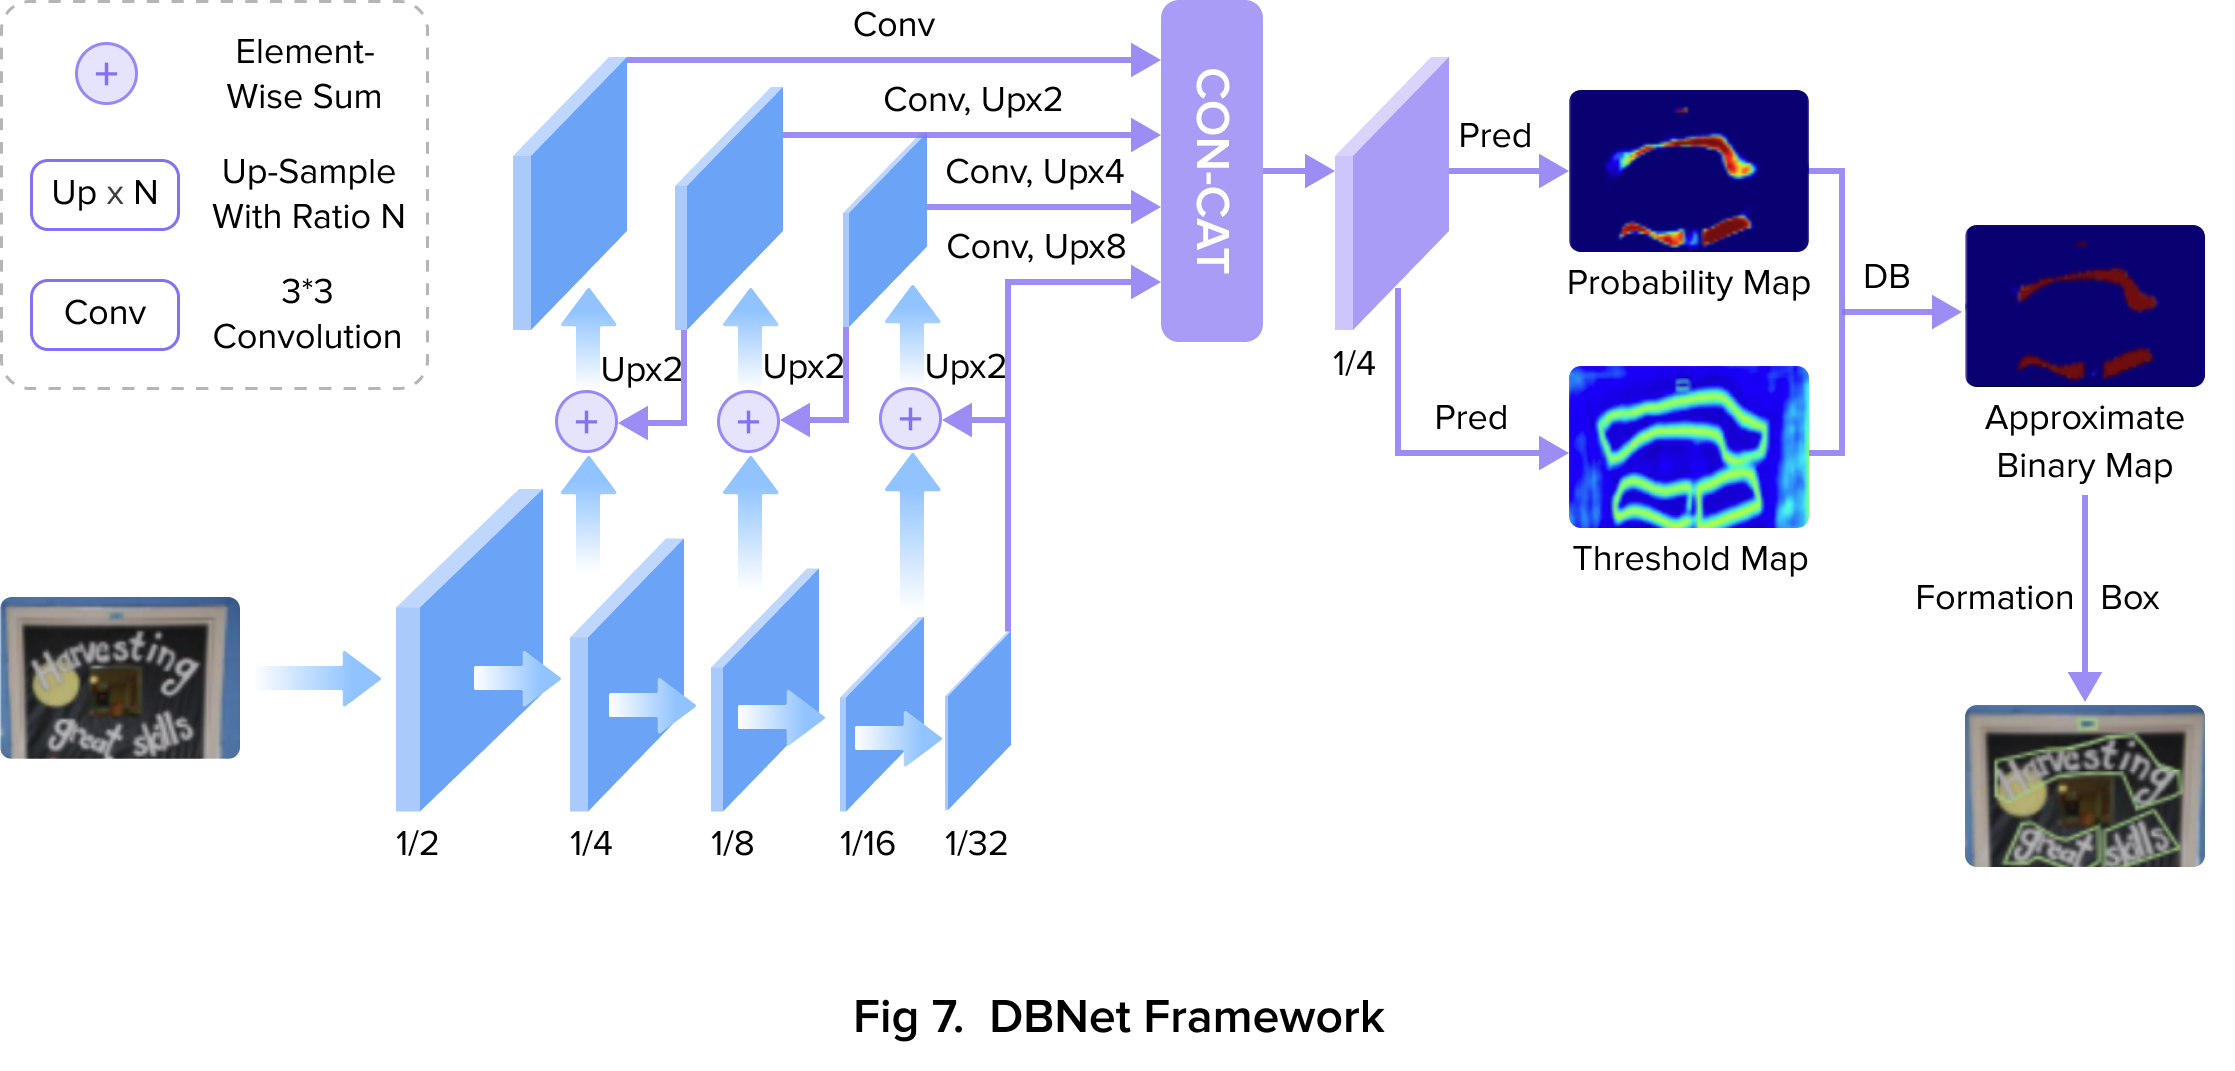
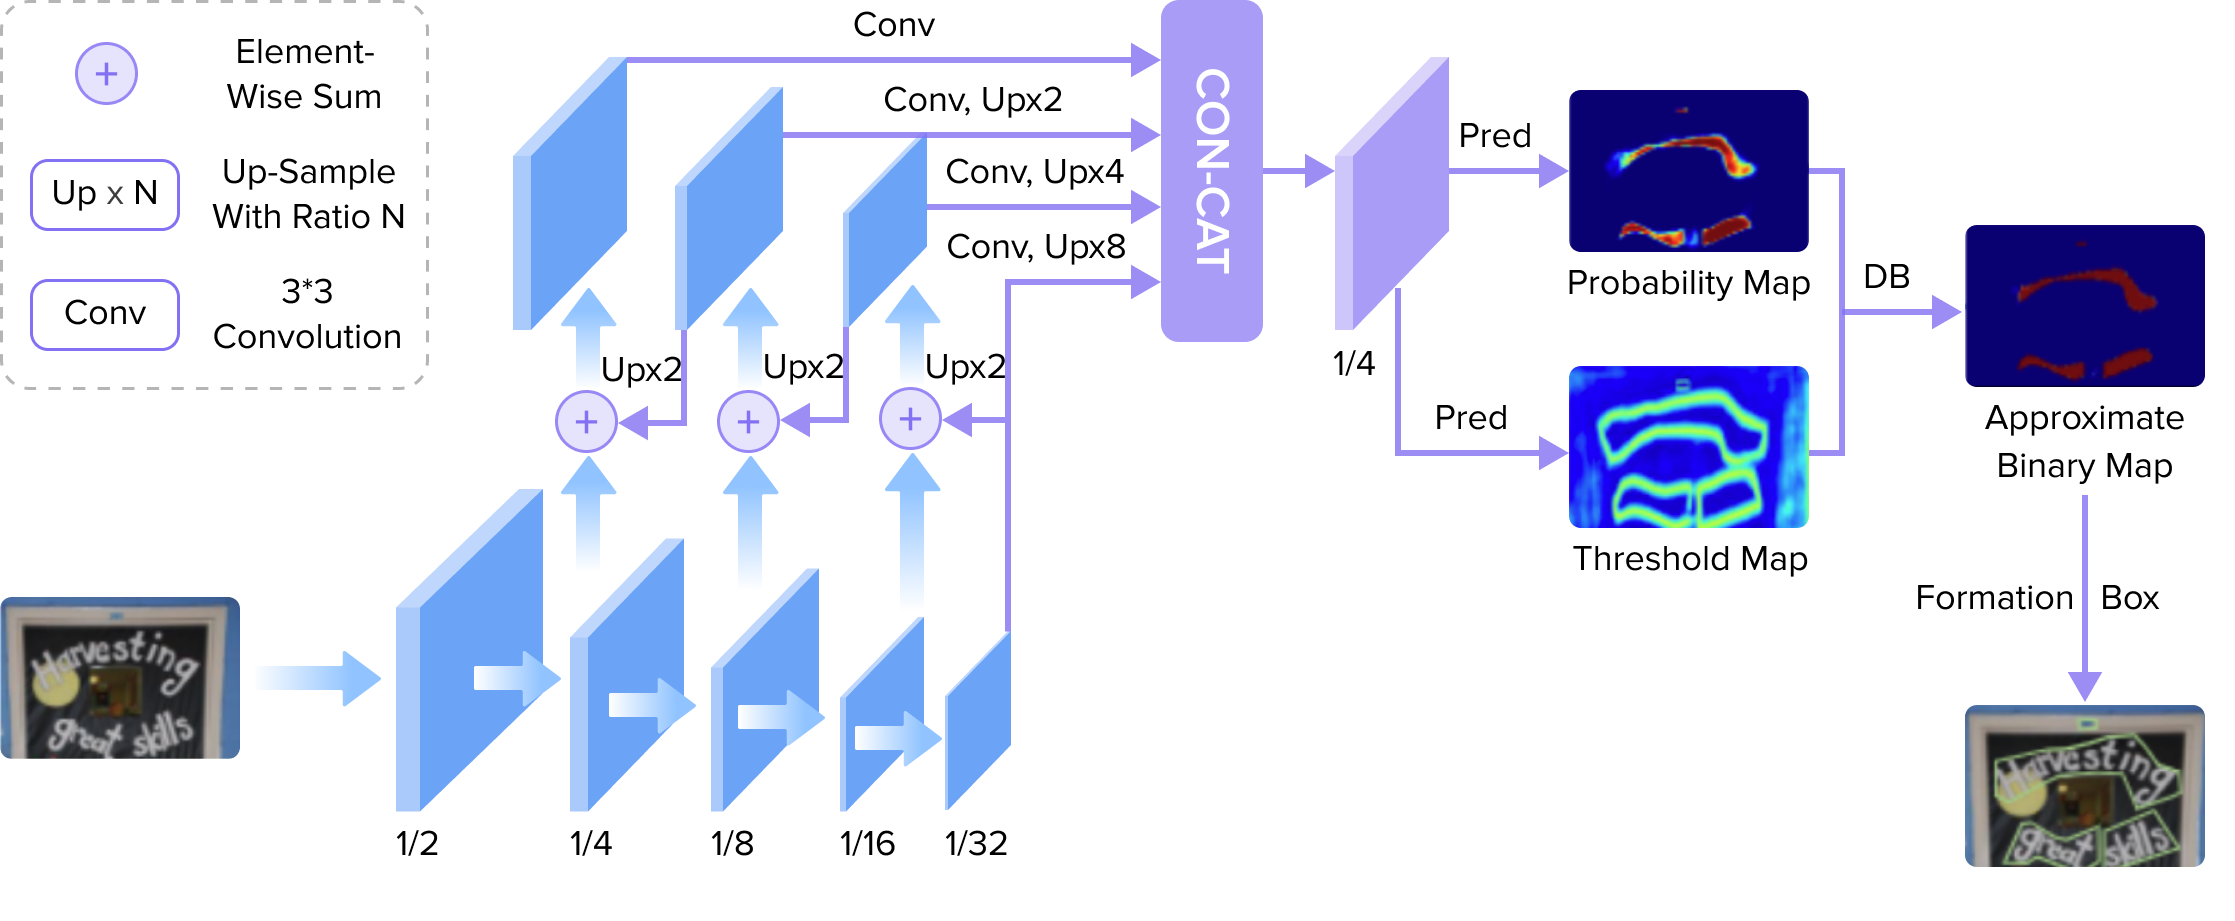
Updata figures.

diff --git a/articles/Image Search: Leveraging Image Models, Large Language Models, and Multimodal Models/README.md b/articles/Image Search: Leveraging Image Models, Large Language Models, and Multimodal Models/README.md
@@ -20,6 +20,10 @@ Aligned with the project's directives and after a thorough investigation of both
 
 ![figure 1 image search framework.png](figure%201%20image%20search%20framework.png#center)
 
+::: center
+**Fig 1.Algorithm Pipline**
+:::
+
 ## 3. Algorithm details
 ### 3.1 Image Retrieval
 Today's myriad of image databases, stemming from educational, industrial, medical, and social sectors, among others, have generated an immense need for robust image retrieval systems. To meet this demand, two principal search methodologies have been developed.
@@ -35,28 +39,31 @@ Regardless of the methodology, when dealing with smaller codebooks, an encoding 
 In the case of CNNs, features may also be derived through an end-to-end process by employing fine-tuned CNN architectures, enhancing the model's adaptability to specific tasks[^third].
 
 ![figure 2 General framework of the CBIR system.png](figure%202%20General%20framework%20of%20the%20CBIR%20system.png#center)
-<center>
 
-**Fig 2.  General framework of the CBIR system[^first]**
-
-</center>
-
-
+::: center
+**Fig 2.General Framework of the CBIR system[^first]**
+:::
 ![figure 3 A general pipeline of SIFT- and CNN-based retrieval models.png](figure%203%20A%20general%20pipeline%20of%20SIFT-%20and%20CNN-based%20retrieval%20models.png#center)
-
+::: center
+**Fig 3.A general pipline of SIFT- and CNN-based retrieval models[^third]**
+:::
 
 #### 3.1.1 Image Feature Extraction Model
 In the scope of our project, the ResNet model[^five], grounded in CNN architecture, and the CLIP model[^six], which is built upon transformer technology, were selected as the fundamental frameworks for feature extraction. We have meticulously performed a series of validation and optimization experiments to enhance and confirm the efficacy of these two robust models.  
 
-ResNet is an emblematic model architecture that epitomizes CNN-based deep learning methodologies. In our project's pre-processing phase, preceding the application of ResNet for feature extraction (Relu is a common activation function), we implemented a methodology reminiscent of face recognition. Through extensive data augmentation processes, we generated pairs of identical or closely related samples and utilized Focal loss [^eleven] to train a sophisticated multi-class classifier. For the actual feature extraction process, we stripped away the classifier layer of the model and repurposed the remaining structure to capture the feature vectors. Common practice dictates setting the feature dimensionality to 512 or a higher value to ensure comprehensive feature representation.
+ResNet is an emblematic model architecture that epitomizes CNN-based deep learning methodologies. In our project's pre-processing phase, preceding the application of ResNet for feature extraction (Relu is a common activation function), we implemented a methodology reminiscent of face recognition. Through extensive data augmentation processes, we generated pairs of identical or closely related samples and utilized Focal loss[^eleven] to train a sophisticated multi-class classifier. For the actual feature extraction process, we stripped away the classifier layer of the model and repurposed the remaining structure to capture the feature vectors. Common practice dictates setting the feature dimensionality to 512 or a higher value to ensure comprehensive feature representation.
 
 ![figure 4 Residual learning: a building block.png](figure%204%20Residual%20learning%3A%20a%20building%20block.png#center)
-
+::: center
+**Fig 4.Residual learning: a building block**
+:::
 
 In 2021, OpenAI heralded a new era in AI with the open-source release of CLIP, a multimodal vision-language model that underwent training with an extensive collection of around 400 million image-text pairs. This training regimen significantly enhanced the generalization performance of the Image Encoder. As a result, CLIP's Image Encoder emerged as a powerful tool for generating domain-specific image embeddings. Keen on maximizing the feature extraction efficiency in specific areas of interest, our team employed the CLIP model framework to curate custom image-text pairs, allowing us to refine and optimize the image encoder to suit our precise requirements.
 
 ![figure 5 clip framework.png](figure%205%20clip%20framework.png#center)
-
+::: center
+**Fig 5.CLIP Framework**
+:::
 
 #### 3.1.2 Dataset
 In the academic and industrial fields, there are several open-source image retrieval datasets designed for different scenarios. Some of these include:
@@ -105,7 +112,9 @@ What OCR does not do is consider the actual nature of the object that you want t
 OCR (Optical Character Recognition) typically consists of two crucial steps: Text Detection and Text Recognition.
 
 ![figure 6 OCR process.png](figure%206%20OCR%20process.png#center)
-
+::: center
+**Fig 6.OCR Process**
+:::
 
 #### 3.2.1 Text Detection
 Text detection is the process of identifying and locating the textual regions within an input image or document. This step involves applying specialized models, such as DBNet, CTPN, and EAST, to efficiently and accurately detect the spatial positions of the text. The output of the text detection step is a set of bounding boxes or text region proposals that encapsulate the textual content.
@@ -119,7 +128,9 @@ The model adopts a lightweight encoder-decoder structure, combining convolutiona
 Ultimately, the output of DBNet is a binarized text region prediction map, which can be further processed by simple post-processing methods like non-maximum suppression to obtain the final text detection results. This flexible post-processing approach makes DBNet a practical scene text detection solution.
 
 ![figure 7 DBNet framework.png](figure%207%20DBNet%20framework.png#center)
-
+::: center
+**Fig 7.DBNet Framework**
+:::
 
 **CTPN**
 
@@ -128,7 +139,9 @@ Additionally, CTPN introduces a sequential prediction module that combines a RNN
 The output of CTPN is a set of text proposals, which can then be fed into a subsequent text recognition model to obtain the final text transcription results. The flexible architecture of CTPN makes it a powerful and versatile text detection solution, complementing the capabilities of other models like DBNet.
 
 ![figure 8 CTPN framework.png](figure%208%20CTPN%20framework.png#center)
-
+::: center
+**Fig 8.CTPN Framework**
+:::
 
 **EAST**
 
@@ -141,7 +154,9 @@ Another important aspect of EAST is its pixel-level prediction, which means the 
 The output of EAST is a set of quadrilateral bounding boxes representing the detected text regions, along with their associated orientation information. This rich output can be directly used for subsequent text recognition tasks, making EAST a powerful and versatile text detection solution.
 
 ![figure 9 EAST framework.png](figure%209%20EAST%20framework.png#center)
-
+::: center
+**Fig 9.EAST Framework**
+:::
 
 #### 3.2.2 Text Recognition
 The CRNN[^ten]model was the first to propose a three-stage architecture for text recognition, which has since become a commonly used approach. The three-stage architecture of CRNN consists of the following components:
@@ -163,7 +178,9 @@ This modular design allows for greater flexibility and ease of optimization, as 
 The pioneering work of CRNN has paved the way for many subsequent advancements in the field of text recognition, solidifying the three-layer architecture as a foundational concept in modern OCR systems.
 
 ![figure 10 RCNN framework.png](figure%2010%20RCNN%20framework.png#center)
-
+::: center
+**Fig 10.RCNN Framework**
+:::
 
 #### 3.2.3 OCR Solution
 We have explored various open-source OCR software options, such as EasyOCR, PaddleOCR, and Tesseract OCR. We also considered the OCR solutions offered by major cloud platforms, including AWS, GCP, and Azure. However, we found that even after fine-tuning the models, the open-source OCR solutions were unable to meet our desired performance requirements.  
@@ -193,25 +210,17 @@ Image Captioning is the task of describing the content of an image in words. Thi
 In the last year, considerable progress has been seen in the realm of multimodal large language models (MM-LLMs). By adopting economical and efficient training methodologies, these cutting-edge models have fortified existing large language models to accommodate inputs or outputs across multiple modalities. The resultant models preserve the inherent reasoning and decision-making prowess that LLMs are known for, while also extending their capabilities to an assortment of multimodal tasks. Notably, functionalities such as generating descriptive captions for images and answering questions based on visual content are among their crucial advancements.
 
 ![figure 11 mm-llms.png](figure%2011%20mm-llms.png#center)
- <p>
-  
-  <center>
-   
-   Fig 11. MM-LLMs[^fourteen]. 
-   
-   </center>
-  </p>
+::: center
+**Fig 11.MM-LLMs[^fourteen]**
+:::
+
 
 MM-LLMs focusing on multimodal understanding typically encompass just the first three components: modality encoders, the core LLM backbone, and modality generators. Throughout the training phase, these elements are generally maintained in a frozen state. Optimization efforts are concentrated on the input and output projectors, which are relatively lightweight. As a result, a small fraction of the overall parameters—commonly about 2%—are actually trainable within MM-LLMs. This percentage is determined by the size of the principal LLM integrated into the MM-LLM framework. Due to this configuration, MM-LLMs can undergo cost-effective training, making the enhancement of performance in assorted multimodal tasks more attainable.
 
 ![figure 12 The general model architecture of MM-LLMs and the implementation choices for each component.png](figure%2012%20The%20general%20model%20architecture%20of%20MM-LLMs%20and%20the%20implementation%20choices%20for%20each%20component.png#center)
-</p>
-<center>
- 
- Fig12. The general model architecture of MM-LLMs and the implementation choices for each component[^fourteen].  
- 
-</center> 
-</p>
+::: center
+**Fig 12.The general model architecture of MM-LLMs and the implementation choices for each component[^fourteen]**
+:::
 
 In this undertaking, we carried out validations and tests for image caption generation using GPT4 vision, LLaVa[^fifteen][^sixteen], and Qwen-vl[^thirteen]models. We meticulously analyzed the precision of the image descriptions provided by these models. Given that GPT4 vision has not been made available for open source use, we based our further enhancements on the Qwen-vl model[^seventeen], selecting it as our foundational model for fine-tuning after our comparative assessments were concluded.
 ## 4. Conclusion
